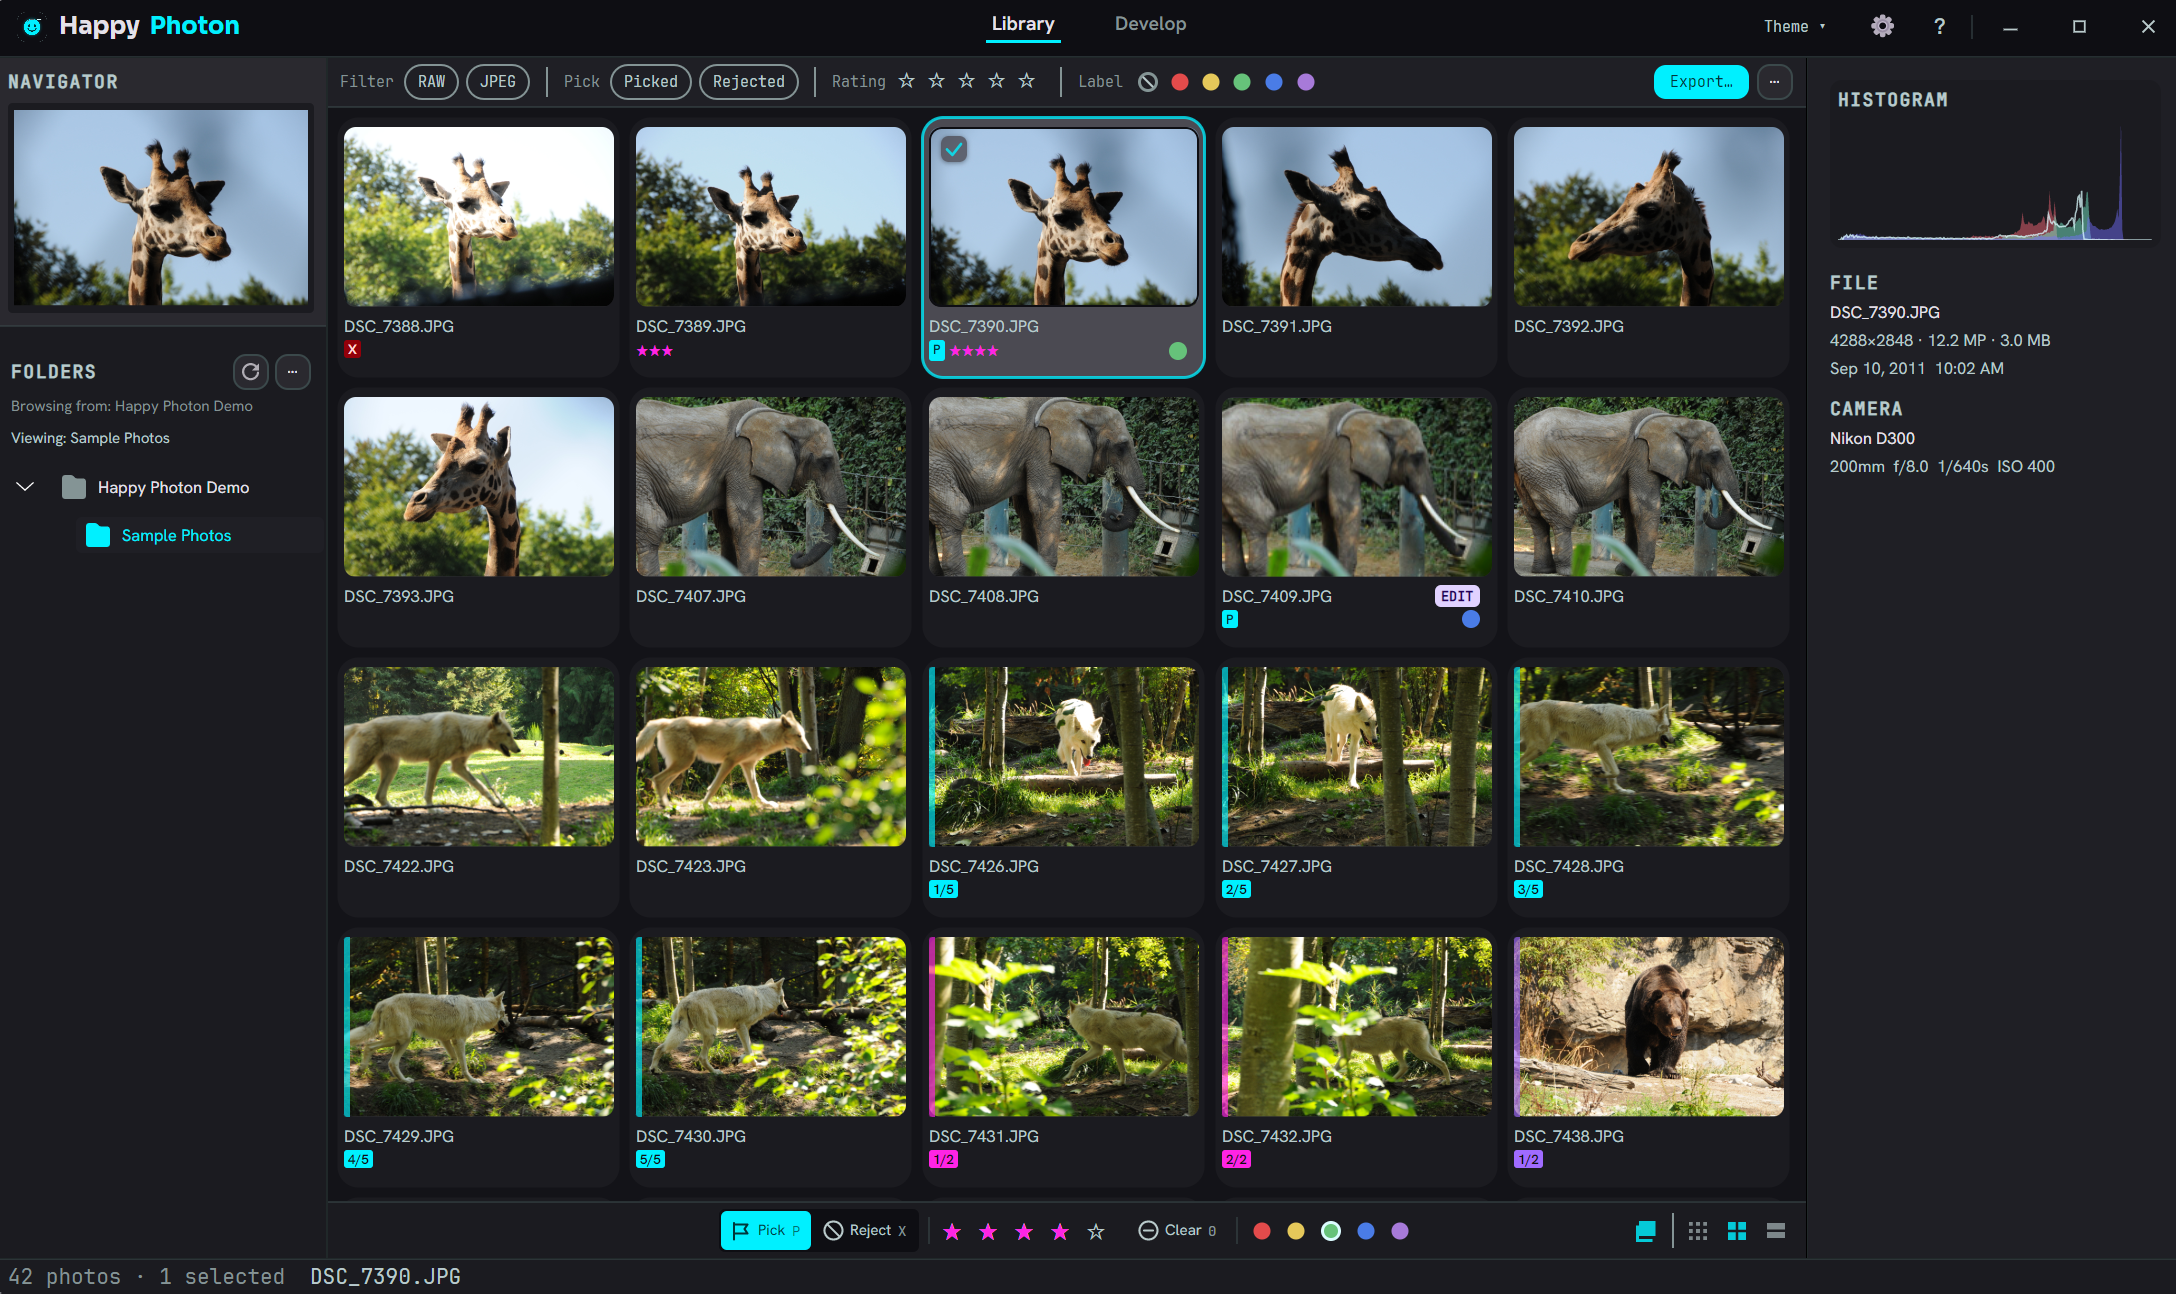
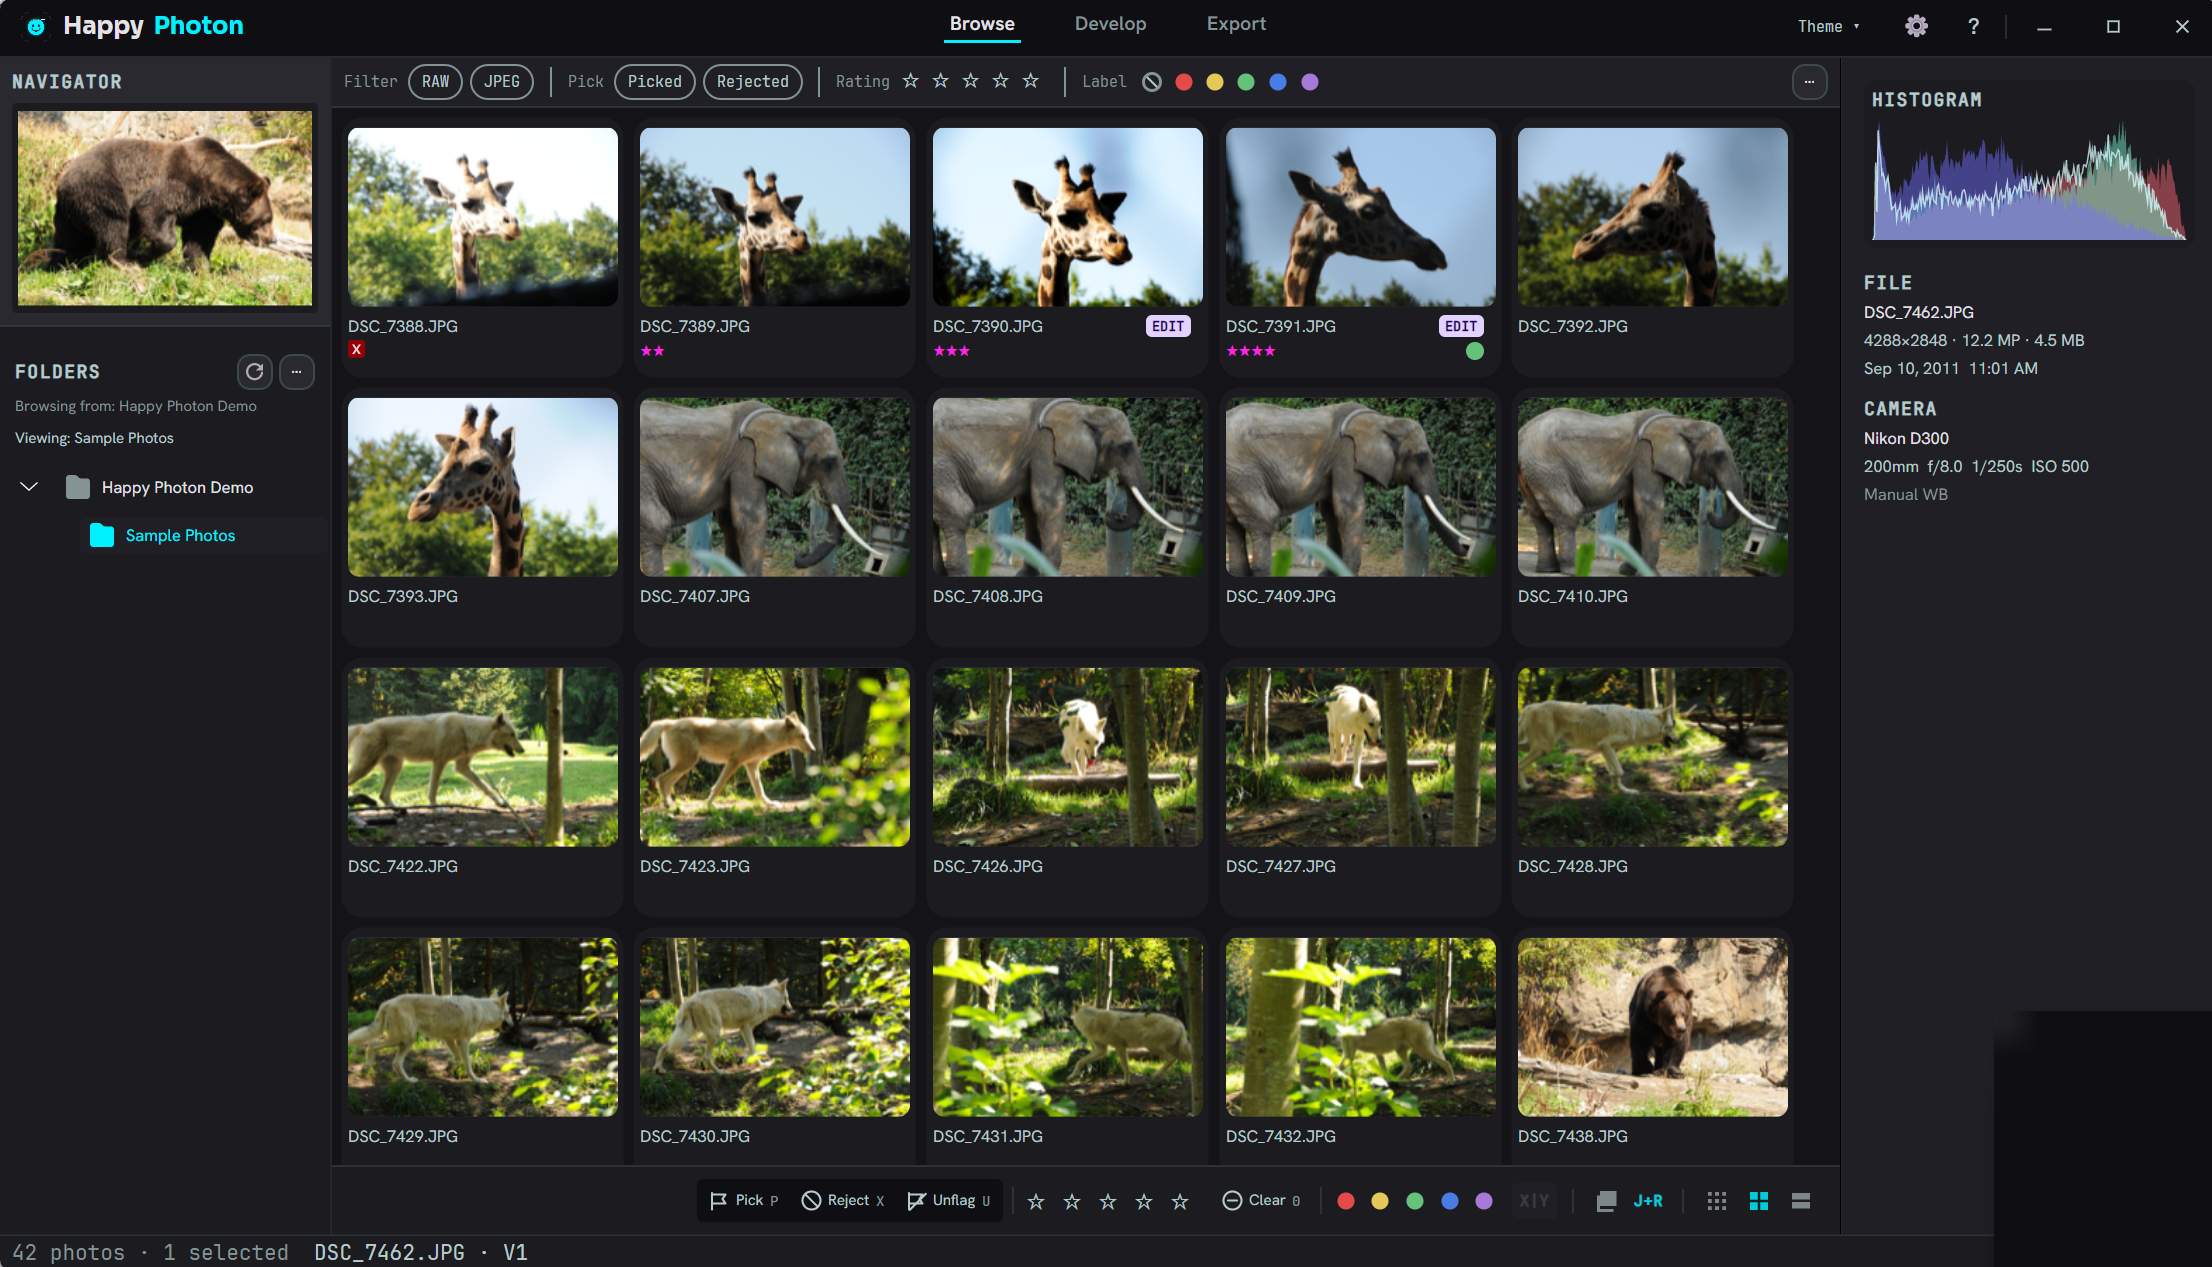
Refresh README, screenshots, and scope claims for the 0.2.1 release

diff --git a/site/pages/pro-editing.html b/site/pages/pro-editing.html
@@ -152,7 +152,7 @@
           <h2>Pro processing does not have to mean <span>feature sprawl.</span></h2>
         </div>
         <div>
-          <p>Happy Photon is built around global photographic adjustments and a fast folder-to-export workflow. It does not currently include local masks, layers, perspective correction, HDR output, custom output profiles, or a database of lens profiles.</p>
+          <p>Happy Photon is built around global photographic adjustments and a fast folder-to-export workflow. It does not currently include local masks, layers, HDR output, or custom output profiles.</p>
           <a class="text-link" href="{{REPOSITORY_URL}}#supported-systems">Review formats and current boundaries <span aria-hidden="true">→</span></a>
         </div>
       </div>

diff --git a/site/pages/photo-editor-linux.html b/site/pages/photo-editor-linux.html
@@ -89,7 +89,7 @@
         <section id="limits" aria-labelledby="limits-title">
           <p class="eyebrow">CURRENT SCOPE</p>
           <h2 id="limits-title">A focused editor, not a complete desktop suite</h2>
-          <p>The first release does not include local masks, lens or perspective correction, layered compositing, HDR output, custom output color profiles, institutional digital-asset management, or native distribution packages.</p>
+          <p>The first release does not include local masks, layered compositing, HDR output, custom output color profiles, institutional digital-asset management, or Flatpak and distribution packages beyond the AppImage.</p>
         </section>
 
         <section id="questions" aria-labelledby="questions-title">

diff --git a/site/pages/photo-editor-windows.html b/site/pages/photo-editor-windows.html
@@ -88,7 +88,7 @@
         <section id="limits" aria-labelledby="limits-title">
           <p class="eyebrow">CURRENT SCOPE</p>
           <h2 id="limits-title">Know what the first release leaves out</h2>
-          <p>The current editing workflow uses global adjustments. It does not include local masks, lens or perspective correction, layered compositing, HDR output, custom output color profiles, mobile synchronization, or Photoshop integration.</p>
+          <p>The current editing workflow uses global adjustments. It does not include local masks, layered compositing, HDR output, custom output color profiles, mobile synchronization, or Photoshop integration.</p>
         </section>
 
         <section id="questions" aria-labelledby="questions-title">

diff --git a/site/pages/photo-editor-macos.html b/site/pages/photo-editor-macos.html
@@ -88,7 +88,7 @@
         <section id="limits" aria-labelledby="limits-title">
           <p class="eyebrow">CURRENT SCOPE</p>
           <h2 id="limits-title">A smaller workflow by design</h2>
-          <p>The current release does not support Intel Macs, local masks, lens or perspective correction, layered compositing, HDR output, custom output color profiles, cloud/mobile synchronization, or Lightroom-edit migration.</p>
+          <p>The current release does not support Intel Macs, local masks, layered compositing, HDR output, custom output color profiles, cloud/mobile synchronization, or Lightroom-edit migration.</p>
         </section>
 
         <section id="questions" aria-labelledby="questions-title">

diff --git a/README.md b/README.md
@@ -16,15 +16,17 @@ ethos.
 Always: originals stay untouched, the catalog stays local, and no account or
 subscription is required.
 
-![Happy Photon Browse view showing a wildlife shoot with ratings, burst
-groups, histogram, and review metadata](docs/screenshots/Screenshot_Browse.png)
+![Happy Photon Browse view showing a wildlife shoot with the filter bar, flags,
+ratings, color labels, histogram, and capture metadata](docs/screenshots/Screenshot_Browse.png)
 
 ## The Happy Photon workflow
 
-A fast and easy workflow separates a shoot into three decisions:
+A fast and easy workflow separates a shoot into three decisions, and the application
+into three matching workspaces: **Browse**, **Develop**, and **Export**.
 
 1. **Which photographs are worth keeping?** Browse your downloaded photos in place,
-   and use flags, ratings, and filters to narrow the shoot.
+   compare candidates side by side, and use flags, ratings, and filters to narrow the
+   shoot.
 2. **What should each keeper look like?** Shape composition, light, color, tone,
    detail, and finishing effects with precise global, non-destructive controls.
 3. **What output do you need?** Select the finished photographs and export the
@@ -32,8 +34,36 @@ A fast and easy workflow separates a shoot into three decisions:
 
 [Follow the complete workflow, from opening a shoot to exporting it](docs/WORKFLOW.md).
 
-![Happy Photon Develop view editing a bear photo with presets, histogram,
-tone curve, and adjustments](docs/screenshots/Screenshot_Develop.png)
+![Happy Photon Develop view editing a bear photo with presets, histogram, white
+balance, adjustments, and tone curve](docs/screenshots/Screenshot_Develop.png)
+
+## New in this release
+
+- **An Export workspace.** Export is now a third workspace beside Browse and Develop
+  rather than a dialog: a filmstrip of the selected captures, a preview that is a true
+  proof of the output pixels, and a queue that keeps running while you move on.
+- **RAW + JPEG as one capture.** Turn on **J+R** in Browse to fold a same-name RAW and
+  JPEG into a single tile that is flagged, rated, and labeled together; in Develop,
+  **J|R** switches between the camera JPEG and the RAW without losing your viewport.
+- **Versions.** Keep up to eight independent interpretations of one file, each with its
+  own edits and optional label, and export them side by side.
+- **Compare and before/after.** Select two to four photos and choose **X|Y** in Browse
+  for a synchronized comparison; choose **Y|Y** in Develop for a synchronized
+  before-and-after split. Press and hold anywhere below 1:1 for an instant loupe.
+- **Lens corrections from a lens database.** RAW files whose camera and lens match the
+  bundled Lensfun snapshot receive distortion, chromatic aberration, and vignetting
+  corrections, in addition to the embedded prescriptions already supported. Nikon lens
+  identities are recovered from maker notes so more bodies match.
+- **Perspective and geometry.** Vertical and horizontal perspective controls join crop,
+  rotation, and horizon, with an alignment grid while you adjust.
+- **Luminance noise reduction.** A wavelet luminance denoiser runs inside the detail
+  stage alongside the existing chroma noise reduction.
+- **Browse file operations.** Right-click a photo to copy its path, reveal it in the
+  system file manager, or delete the selection.
+- **Linux AppImage.** Linux releases ship as a self-contained AppImage.
+
+Every keyboard shortcut and gesture also has a visible control, so nothing is hidden
+behind a key you have to know.
 
 ## Pro-level processing, Happy Photon simplicity
 
@@ -44,23 +74,25 @@ Happy Photon pairs its fast, three-decision workflow with a deep image engine.
   export to sRGB or Display P3.
 - **A RAW pipeline built for real cameras.** Scene-referred AgX tone rendering,
   measured as-shot white balance, highlight reconstruction, DCP camera profiles,
-  true monochrome RAW support, and embedded RAW lens corrections where supported.
+  true monochrome RAW support, and lens corrections from embedded prescriptions or
+  the bundled Lensfun database.
 - **Advanced color and tone controls.** Kelvin and tint, Auto and eyedropper white
   balance, exposure, highlights, shadows, contrast, saturation, skin-aware vibrance,
   an eight-band HSL color mixer, and composite plus per-channel RGB tone curves.
-- **Detail and finishing tools.** Capture sharpening, chroma and RAW noise reduction,
-  crop and horizon straightening, vignette, deterministic film grain, and independent
-  screen or print output sharpening.
+- **Detail and finishing tools.** Capture sharpening, luminance, chroma, and RAW noise
+  reduction, crop, horizon straightening, perspective correction, vignette,
+  deterministic film grain, and independent screen or print output sharpening.
 - **Scopes that help you make decisions.** Display histogram, luminance waveform, RAW
   sensor histogram, source-highlight and display-floor clipping overlays, device-true
-  zoom, before/after, and an invariant mid-gray assessment surround.
+  zoom, press-and-hold loupe, synchronized compare and before/after, and an invariant
+  mid-gray assessment surround.
 - **Professional handoff without a detour.** Export JPEG, PNG, WebP, or lossless
   16-bit TIFF with embedded ICC profiles, normalized EXIF, optional GPS stripping,
   collision protection, and the same rendering pipeline used by the preview.
 
 Every edit remains non-destructive and is saved automatically. Undo and redo, personal
-presets, hover previews, and copy/paste across a series make the advanced controls
-practical for an entire shoot rather than just one hero frame.
+presets, versions, hover previews, and copy/paste across a series make the advanced
+controls practical for an entire shoot rather than just one hero frame.
 
 ## Supported systems
 
@@ -74,10 +106,11 @@ open through the same decoder but are not part of the verified set. RAW
 decoding uses the bundled, audited [LibRaw 0.22.2](https://www.libraw.org/news/libraw-0-22-2-release)
 generation, so a listed extension does not guarantee support
 for every camera model or compression variant—especially newer bodies. The
-in-app workflow provides global photographic adjustments and supports embedded lens
-correction prescriptions for a qualified subset of DNG and Fujifilm RAF files. It does
-not currently include local masks, perspective correction, database-matched lens
-profiles, layer compositing, HDR output, or custom output color profiles.
+in-app workflow provides global photographic adjustments. Lens corrections apply to
+RAW files only, from embedded prescriptions in a qualified subset of DNG and Fujifilm
+RAF files or from an exact camera and lens match in the bundled Lensfun database. It
+does not currently include local masks, layer compositing, HDR output, or custom
+output color profiles.
 
 HEIC/HEIF read support is probed at runtime and can vary with the bundled codec.
 Intel macOS is not a supported public target.

diff --git a/docs/pipeline/OVERVIEW.md b/docs/pipeline/OVERVIEW.md
@@ -295,7 +295,7 @@ does not access or change pixels.
 
 ## 7. Current boundaries
 
-Local adjustments/masks, perspective corrections, custom output ICC targets,
-display-profile awareness, XMP sidecars, HDR output, AVIF/JXL, 1:1-zoom region decode
-(zoom continues to use the bounded preview base). These are product boundaries, not
-partially implemented pipeline stages.
+Local adjustments/masks, custom output ICC targets, display-profile awareness, XMP
+develop-settings sidecars (XMP exchanges assessments only), HDR output, AVIF/JXL,
+1:1-zoom region decode (zoom continues to use the bounded preview base). These are
+product boundaries, not partially implemented pipeline stages.

diff --git a/docs/ARCHITECTURE.md b/docs/ARCHITECTURE.md
@@ -112,8 +112,8 @@ rejected outcomes dispose their pixels, masks, and uncommitted promotion lease. 
 while the Develop overlay is latched or peeked, preserving a mask-free normal preview
 path. Camera compatibility follows the bundled LibRaw generation and the exact
 compression variant, not merely the file extension. The current product boundary is
-global edits: there are no local masks, manual perspective correction, layered
-compositing, HDR output, or custom output profiles.
+global edits: there are no local masks, layered compositing, HDR output, or custom
+output profiles.
 
 ## Startup sequence
 
